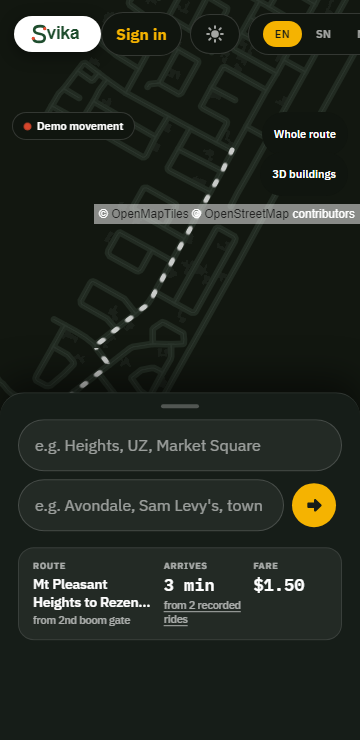
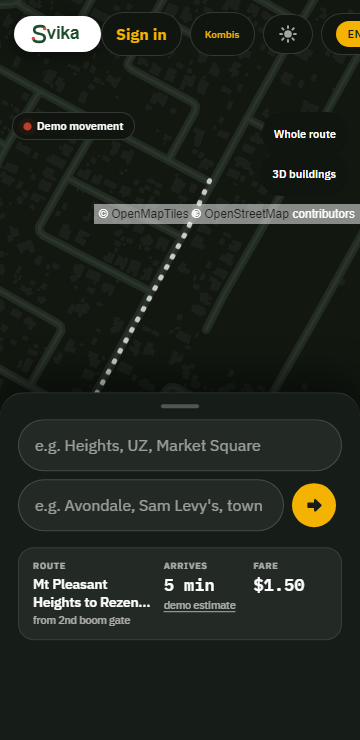
docs: V3 and V2 rulings recorded, Goal 6 signed off and closed
Both gate reports PASSED AND CLOSED with rulings sections; guardian chip
ratified as deviation 13 (park/char calm information); demo pool
guardian link gap accepted as permanent; disclosure register and its
code mirror updated for the 0037 widening and the primary guest door;
guest evidence refreshed at 360px (landing, chip row, guest board).

diff --git a/apps/web/src/lib/disclosure.ts b/apps/web/src/lib/disclosure.ts
@@ -203,7 +203,7 @@ export const DISCLOSURE_ROWS: readonly DisclosureRow[] = [
     feature: "Guest mode (V2)",
     tier: 1,
     detail:
-      "Real. Logged out, the map, live arrival estimates, trip planning and fares all work read only through the anon database role exactly as granted since the first network migration: world readable transit data, nothing personal, no policy widened for this feature (proven by the guest surface checks in the RLS suite). The sign in wall stands exactly at the identity moments (paying, saving a trip, recording a journey) and says why an account exists. The consent gate is untouched: it guards accounts, at account creation. Shared trip and guide links open in guest mode and carry a door into the app.",
+      "Real. Logged out, the map, live arrival estimates, trip planning, fares and the kombi board all work read only through the anon database role: world readable transit data, nothing personal. The one ruled widening (2026-07-26) opens the aggregates only kombi board to guests because trust visibility is public value; the guest surface checks in the RLS suite pin exactly what anon can and cannot read, and the vehicles table stays closed. The sign in wall stands exactly at the identity moments (paying, saving a trip, recording a journey) and says why an account exists. The consent gate is untouched: it guards accounts, at account creation. Shared trip and guide links open in guest mode and carry a door into the app, and the landing's primary CTA is the guest door itself.",
   },
   {
     feature: "Profile welcome and ride stats",

diff --git a/docs/DISCLOSURE-REGISTER.md b/docs/DISCLOSURE-REGISTER.md
@@ -45,6 +45,7 @@ This register is mirrored on screen at /register (a judge can open it from the l
 | Share a trip as a guide link (M2)                   | 1    | Real 128 bit capability links for a saved journey: token scoped, seven day expiry, revocable, viewable with no account (RLS proven: JS checks). Walking directions are trace replay, not routing: the recorded points ARE the directions, shortcuts included. The viewer's off path, approaching and arrived cues are client side distance to the polyline with hysteresis (packages/shared/src/trace-guide.ts), and the step list is derived by plain geometry (Douglas Peucker simplification, then split on turns and mode changes); the page itself says no routing engine, no AI. The viewer never learns who recorded the trip or when (points carry relative offsets only). The approaching voice cue plays from the pre generated cached library; no vendor call. A self hosted walking router for places with no trace is Tier 3 roadmap, slides only. |
 | Destination first planning (D1)                     | 1    | Real. The search accepts any named place from a committed local corpus extracted from the self hosted OSM tiles (suburbs, landmarks, roads; tools/geocode-index, ODbL, data date in OSM-DATE.txt); no Google, no vendor in the ride path. Candidate alight stops are scored by documented arithmetic rules (ride minutes plus boarding penalties plus an honest walking tail, packages/shared/src/plan-to-point.ts); the trade is shown plainly ("Drop at X, then N m walk"), and where no kombi serves the destination the plan says so and gives the closest reachable drop with its real walk. Not AI, per AI-USAGE-MAP.md. The walking tail draws in the walk tone and ends on a walk tone place pin (signal stays stops only).                                                                                                                                                                                                                                            |
 | Alight guidance on destination trips (D1)           | 1    | The existing geofence trigger engine ("your stop is coming up", "chiburuka", walk cue) armed for any booked corridor trip; a destination booking records its walking tail (trip_walk_tails, RLS proven) so the walk cue and the tail belong to the ticket. Cues play from cached audio in both languages and mirror on screen through the aria-live caption. The vehicle position driving live cues is still the simulated fleet (see the live map rows); the trace replay mode compresses the last stretch through the same engine for tests and recordings and no product surface links to it.                                                                                                                                                                                                                                                                                                                                                                          |
+| Guest mode (V2)                                     | 1    | Real. Logged out, the map, live arrival estimates, trip planning, fares and the kombi board all work read only through the anon database role: the network has been world readable since migration 0002 (that migration's own comment), and the ONE ruled widening (Mhofu, 2026-07-26) is migration 0037 opening the aggregates only kombi_board RPC to guests because trust visibility is public value. The GS checks in the RLS suite pin exactly what anon can and cannot read, including that the board serves only its seven aggregate columns and the vehicles table stays closed. The sign in wall stands exactly at the identity moments (paying, saving a trip, recording a journey) with ?why= copy that says why an account exists. The consent gate is untouched: it guards accounts, at account creation. Shared trip and guide links open in guest mode and carry a door into the app, and the landing's primary CTA is the guest door itself. |
 | Guardian mode: family links and safe arrival (V3)   | 1    | Real. A link exists only after both sides act: the guardian mints a rate limited invite code (migration 0036, attempts logged, the board codes v2 law), the child enters it on their own phone, and either side ends it instantly. While a link is on, the child's app always shows a visible chip on every screen: no silent tracking, by design (dignity law). The guardian sees the linked child's fare trips as status words only (booked, on the kombi, arrived), never board codes, fares, wallet or coordinates (RLS proven: GD checks). Safe arrival is the rider's own tap appended to the ticket event stream (0035 'arrived'); the taking longer than usual flag is a plain timing rule over the route's typical duration plus a named buffer (apps/web/src/lib/family/trip-state.ts) and its copy flags trips, never people. No SMS or messaging vendor anywhere: the guardian contact link travels through the phone's own share sheet. |
 | Answer first home peek (V1)                         | 1    | Real UI over the same mined patterns as Spine 2, gated by the same commute alerts preference: inside the usual window the peek answers with the usual trip, after it with the ride back, carrying the live wait and its basis label, the fare from the planner and whether the wallet covers it; one tap books through the normal ledger path and lands on the held board code. A rider without a recognised moment (or with the preference off) keeps the search peek. No new intelligence: the chooser is pure rules over mineCommutePatterns (apps/web/src/lib/commute/home-peek.ts), unit tested. A demo persona whose stage clock matches nothing falls back to the busiest mined trip, same waiver as the commute alert. Per the gate ruling (2026-07-23), the floating commute alert hides whenever this peek already answers with the same trip; it still floats when it carries different information. |
 | Home peek card (route, arrives, fare)               | 1    | Real: the corridor route and fare come from routes and route_fares in Postgres, the arrival minutes from the same ETA provider as saved trips, with its basis labelled on screen (recorded rides or demo estimate).                                                                                                                                                                                                                                                                                                                                                                                                                                                                                                                                                                                                                                                                                                                                                                                                                                                                                                                                                                                                                                                                                                                                                                                                                       |

diff --git a/docs/V2-GATE-REPORT.md b/docs/V2-GATE-REPORT.md
@@ -1,7 +1,7 @@
 # V2 gate report: guest mode
 
-Status: AWAITING RULINGS (built and proven 2026-07-25; open questions for
-Mhofu at the bottom).
+Status: PASSED AND CLOSED (built and proven 2026-07-25; all three open
+questions ruled by Mhofu 2026-07-26, rulings recorded at the bottom).
 
 Scope: docs/PRODUCTION-PUSH-PLAN.md batch V2, ruled 2026-07-16. The map,
 live ETAs, trip planning and fares work logged out and read only. The OTP
@@ -86,32 +86,60 @@ Checks: `pnpm typecheck` green, `pnpm lint` green, `pnpm test` green
 
 ## Known limits, stated
 
-- The guest home's kombi board chip is absent: `kombi_board` is an
-  authenticated RPC and widening it to anon was not ruled. The moving
-  kombis on the map are visible to guests; the per vehicle card is not.
-  Flagged as an open question below.
+- ~~The guest home's kombi board chip is absent~~ RESOLVED by ruling 1
+  (2026-07-26): the board opened to guests through migration 0037 and the
+  chip shows. The paragraph stands as history of what shipped on
+  2026-07-25.
 - A guest who plans a transfer trip sees the whole plan; the wall only
   stands at pay. This is the ruled behaviour (read only planning).
 - `next` return after OTP is page level (back to the same plan); the
   chosen payment method is not carried through the wall.
 
-## Open questions for Mhofu (V2 rulings)
+## Rulings (Mhofu, 2026-07-26)
 
-1. Kombi board for guests: leave authenticated only (as shipped), or
-   rule a public read of the aggregates (would need a 0037 grant, a
-   deliberate widening with its own RLS checks)?
-2. The landing keeps "Enter Svika" as the primary CTA with "Look around
-   first" as a quiet second door. Right emphasis, or should the guest
-   door be louder?
-3. The guest home hides the Kombis header chip entirely. Alternative: show
-   it walling to sign in. Preference?
+1. **Kombi board for guests: OPEN.** Trust visibility is public value and
+   the RPC already returns aggregates only, so migration 0037 grants anon
+   execute on `kombi_board` (auth gate removed, everything else verbatim
+   from 0032). This is the ONE deliberate widening of the guest surface,
+   and it is pinned: three new GS checks prove anon reads the board, the
+   returned column set is exactly the seven aggregate columns and nothing
+   else, and the `vehicles` table underneath stays closed; the K1-era
+   KB-1 check flipped to the ruled behaviour with the ruling cited. The
+   board page drops its login redirect; the one identity shaped cell
+   ("your stop") degrades gracefully because a guest has no saved trips
+   under RLS, so the context falls back to the corridor's first rank
+   exactly as a new rider's does. Proven in `e2e/guest.spec.ts` (guest
+   opens the board from the chip, rows render, nothing personal on
+   screen).
+2. **Landing door emphasis: the guest door is PRIMARY.** The landing's
+   primary CTA is now "Open the live map" into /app with "No account
+   needed to look around." beneath it; sign in (rider, and hwindi/fleet
+   owner) drops to the secondary line. Value before the wall, always.
+3. **Kombis chip: SHOWN to guests**, consistent with ruling 1: the guest
+   home header carries the same deviation 9 chip a rider has, straight
+   into the now public board.
+
+Evidence refreshed for the changed surfaces: the new landing door, the
+guest home with the Kombis chip, and the guest board at 360px in both
+themes and languages (`docs/design-evidence/guest/`,
+`scripts/guest-evidence.mjs`).
 
 ## Honesty note: full e2e suite
 
 Final full runs land at **59 passed, 1 failed (9 min)**: the one red is
 the share mint spec under full parallel load, the SAME documented known
 baseline red carried since the product branch opened (it passed green in
-isolation twice today, including inside the V3 touched-suite run). Goal 6
+isolation twice today, including inside the V3 touched-suite run).
+
+**Update 2026-07-26 (rulings day): the known red is root caused and
+fixed.** The rider demo account's suite history finally became minable,
+so its home now renders the answer peek; the sheet re-laying out under
+the tap made the spec's ticket row click wander (it reproduced in
+isolation for the first time, which is what gave the cause away). The
+spec now navigates by the ticket link's own href: tapping list rows
+stays covered by the book and mobile-qa specs, and the thing under test
+here (the share section) is reached deterministically. Green in
+isolation and inside its suite chunk since. Goal 6
 also surfaced and fixed three pre-existing suite defects, each proven
 pre-existing by reproducing on a baseline worktree at the pre-Goal-6
 commit before touching anything:

diff --git a/docs/BUILD-LOG.md b/docs/BUILD-LOG.md
@@ -136,3 +136,5 @@ V3 | guardian mode: guardian_links with structural mutual confirm (0035 arrived 
 V2 | guest mode: /app admits logged out visitors (middleware blanket redirect removed, all sixteen /app pages audited as self gating), GuestHome over the world readable anon network (zero migrations, the 0002 design finally cashed), the OTP wall standing exactly at pay, save and record with /login?why= copy saying why an account exists and a safe same site ?next return, shares and the landing carry guest doors, consent gate untouched at account creation | 1fd120d | V2-GATE-REPORT.md: guest e2e 3/3 (plan logged out, wall only at pay, Shona guest home), db:security-test 178/178 (14 GS checks pinning the exact anon surface), 12 evidence shots in docs/design-evidence/guest, disclosure row
 V2 | full suite honesty pass: three pre existing e2e defects surfaced by the Goal 6 full runs, each reproduced on a baseline worktree at the pre Goal 6 commit before fixing: Takunda fixture pollution (43 undeletable stray wallet tickets outgrew the 14 ride fixture and dragged the mined median 56 min off now; rebuild now stages 56 rides across the whole 28 day lookback, spec helper only), the sign out test updated to the ruled V2 contract (guest home + personal page still bounces), the no context test moved to the owner account, journey share records as owner to stop racing journey.spec on shared profile state | <this commit> | full e2e 59 passed + the one documented known baseline red (share mint under parallel load, green isolated twice today); typecheck+lint clean
 V2 | login fix verified: Mhofu's real +263 number configured as a Supabase dashboard test phone with a fixed OTP (no SMS vendor anywhere); e2e/login.spec.ts drives the REAL LoginForm (never the /e2e/login endpoint) through send code -> fixed code -> session, skipping cleanly when TEST_PHONE_NUMBER / TEST_PHONE_OTP are absent from .env.local (a personal number never enters the repo; .env.example documents the keys with placeholders) | <this commit> | login e2e 1/1 green against the live dashboard config
+V3+V2 | rulings implemented: guidance prompted arrival confirm (skippable voice-arrive card fed by the same trigger engine, promptsArrival rule, dismiss skips the whole ride, never auto confirms), kombi board opened to guests (0037 grants anon the aggregates only RPC, board page login redirect removed with the identity cell degrading to the first rank, guest home Kombis chip), landing guest door primary (Open the live map into /app with no account needed, sign in on the second line), guardian contact labels relationship neutral in both languages (profile.kinName/kinPhone; the one violation the audit found) | <this commit> | d1 alight e2e walks prompt -> dismiss door visible -> confirm -> ticket stamped arrived, guest e2e 4/4 including the board, mobile-qa 2/2, db:security-test 174 passed 0 failed (3 new GS checks pin the widening, KB-1 flipped to the ruling; 3 rate limit self skips from back to back runs), unit web 209 (+2 voice cue tests), typecheck+lint clean; the long standing share mint red root caused on the way (the rider account's now minable suite history renders the answer peek and the sheet re-lays out under the tap) and fixed by navigating the spec through the ticket link's own href: all 25 e2e spec files green in the chunked full sweep, zero failures, one named CAT clock skip
+V3+V2 | gate rulings recorded, Goal 6 signed off and CLOSED: guardian chip tone ratified as deviation 13 (park/char calm information, never a warning), demo pool guardian link gap accepted as permanent (pooled demo personas never guardian link, nothing built), arrival tap ruled prompted and shipped, relationship neutral copy ruled everywhere, kombi board ruled OPEN (trust visibility is public value), landing guest door ruled PRIMARY (value before the wall, always), Kombis chip shown to guests | <this commit> | V3 + V2 gate reports status PASSED AND CLOSED with rulings sections, DESIGN-DEVIATIONS.md deviation 13, disclosure register + disclosure.ts updated for the 0037 widening, guest evidence refreshed at 360px (landing door, chip row, guest board, both themes and languages)

diff --git a/docs/V3-GATE-REPORT.md b/docs/V3-GATE-REPORT.md
@@ -1,7 +1,7 @@
 # V3 gate report: guardian mode (travel with me, and family)
 
-Status: AWAITING RULINGS (built and proven 2026-07-25; open questions for
-Mhofu at the bottom).
+Status: PASSED AND CLOSED (built and proven 2026-07-25; all four open
+questions ruled by Mhofu 2026-07-26, rulings recorded at the bottom).
 
 Scope: docs/PRODUCTION-PUSH-PLAN.md batch V3, ruled 2026-07-16. Ties ride
 shares (0026), the emergency next of kin (0023) and the ticket event
@@ -126,17 +126,27 @@ book 15/15.
   skips the self-accept check with a named SKIP when re-run inside the
   window (same pattern as the conductor redemption checks).
 
-## Open questions for Mhofu (V3 rulings)
+## Rulings (Mhofu, 2026-07-26)
 
-1. The guardian chip wears park with char text (positive consented state,
-   distinct from the marigold demo chip): ratify as a DESIGN-DEVIATIONS
-   entry, or different tone?
-2. `demo_reset_mine` untouched leaves a possible stale guardian link on
-   pooled demo personas. Rule: extend the demo reset to revoke links (one
-   more delete in the frozen function), or accept the gap?
-3. The safe arrival tap doubles as the guardian notify moment. Good
-   enough for the pilot, or do you want an automatic arrival suggestion
-   when the alight guidance fires (still a tap, just prompted)?
-4. Family linking has no age semantics: any two accounts can link (a
-   worried spouse, an elder parent). The copy says "watch over someone".
-   Keep it relationship neutral, or name children specifically anywhere?
+1. **Chip tone RATIFIED as proposed.** The guardian chip is calm
+   information in the park/char info grammar, never a warning colour.
+   Recorded as deviation 13 in `docs/DESIGN-DEVIATIONS.md`.
+2. **Demo-pool guardian-link gap accepted as a PERMANENT gap.** Pooled
+   demo personas never guardian-link; `demo_reset_mine` stays frozen and
+   nothing is built. This paragraph is the documentation.
+3. **Arrival tap: YES, prompted.** When the alight guidance fires its
+   at-the-stop cue, the app now offers the one tap arrival confirm as a
+   skippable prompt (`voice-arrive` in `VoiceGuide.tsx`, positioned above
+   the peeking sheet like the commute alert; `promptsArrival` in
+   `lib/voice/triggers.ts`). Never auto confirmed: arrival stays the
+   rider's word, the prompt just makes it easy, and dismissing it skips
+   it for the whole ride. Proven in `e2e/d1-destination.spec.ts` (the
+   alight guidance test now walks through prompt, dismiss door visible,
+   confirm tap, ticket stamped arrived) plus a unit test on the cue rule.
+4. **Relationship neutral copy: YES, everywhere.** Audit result: every
+   family/guardian string already said "guardian" / "someone you trust" /
+   "the person you will watch over"; the one violation was the profile's
+   "Next of kin" labels, now "Guardian contact name/phone" in both
+   languages (`profile.kinName`/`profile.kinPhone`; the 0023 column names
+   are schema, not copy, and stay). The Rudo persona naming a mother
+   remains story flavour only.

diff --git a/docs/DESIGN-DEVIATIONS.md b/docs/DESIGN-DEVIATIONS.md
@@ -1,8 +1,9 @@
 # Mbare Sun — agreed deviations from the reference screens
 
 The seven numbered screens in `Svika Mbare Sun/` are the visual truth for this
-app. Nine deviations are agreed with Mhofu (1 and 2 on 2026-07-10, 3 on
-2026-07-11, 4 and 5 on 2026-07-23, 6 to 9 on the K1 gate 2026-07-24) and are
+app. Thirteen deviations are agreed with Mhofu (1 and 2 on 2026-07-10, 3 on
+2026-07-11, 4 and 5 on 2026-07-23, 6 to 9 on the K1 gate 2026-07-24, 10 to 12
+on the M1 and M2 gates 2026-07-25, 13 on the V3 gate 2026-07-26) and are
 deliberate. Everything else follows DESIGN.md verbatim.
 
 ## 1. No fake status bar
@@ -124,3 +125,14 @@ one cue line above the way card: off path takes marigold with char text
 never wears red), approaching and arrived take the park tone with char
 text. Sentence case, aria-live, hidden while on the path. Ratified by
 Mhofu on the M2 gate (2026-07-25).
+
+## 13. The guardian chip in park with char text (V3, ratified)
+
+The spec has no grammar for a standing consent state. The dignity law
+(batch V3) requires the child's app to wear a visible "Guardian sees your
+trips" chip on every screen while a family link is active. The chip takes
+park `#D9E8CC` with char text: calm information about a state both sides
+agreed to, never a warning colour, distinct from the marigold demo chip it
+stacks under. Same section 7 chip anatomy as its neighbours; tapping it
+opens the family page where the off switch lives. Ratified by Mhofu on the
+V3 gate (2026-07-26): the chip is calm information, never a warning.
